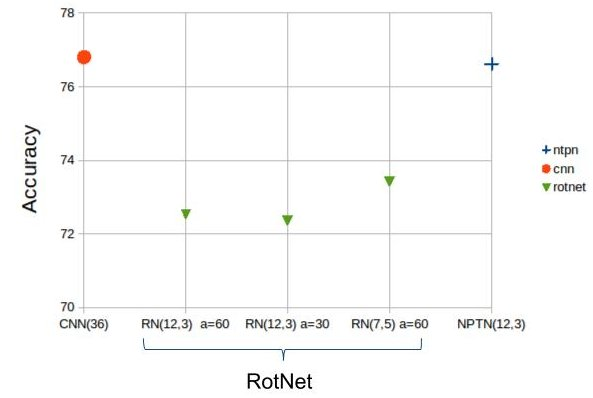
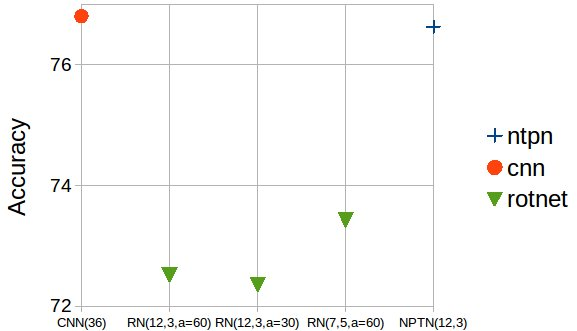
changed Figures

diff --git a/report/report_nptn.tex b/report/report_nptn.tex
@@ -10,6 +10,8 @@
 \PassOptionsToPackage{hyphens}{url}\usepackage{hyperref}
 %\RequirePackage[hyphens]{url}
 
+\usepackage{gensymb}
+
 \usepackage{wrapfig,lipsum,booktabs}
 \usepackage{biblatex}
 \bibliography{references.bib}
@@ -279,7 +281,7 @@ One thing we noticed during this and also the following experiment, is that the 
 \begin{figure}
 	\begin{center}
 	\includegraphics[scale=0.35]{result_images/experiment1.jpg}
-	\caption{The first experiment}
+	\caption{Comparison of the networks on the CIFAR dataset, left: results from \citep{NPTN18}, right: our results}
 	\label{pic:first_experiment}
 	\end{center}
 \end{figure}
@@ -288,21 +290,21 @@ One thing we noticed during this and also the following experiment, is that the 
 \section{Rotation Experiments on MNIST}
 The second experiment from the paper compares a CNN and several NPTNs. Again the dimensions are chosen in a way that matches the values in the paper and leads to the same amount of filters for all networks. 
 This experiment uses the MNIST dataset \cite{MNIST} where data augmentation was applied to all images from training and test set by randomly rotating the images up to a certain angle $\rho$. 
-\begin{wraptable}{r}{5.5cm}
+\begin{wraptable}{r}{7cm}
 %\begin{table}
 \begin{center}
 \begin{tabular}{ |c| c c || c c| } 
  \hline 
   & \multicolumn{2}{|c||}{Paper results} & \multicolumn{2}{|c|}{Our results} \\
  \hline
- Rotations & 60$\deg$ & 90$\deg$ & 60$\deg$ & 90$\deg$ \\
+ Rotations & \hspace{1mm} 60$\degree$ \hspace{1mm} & \hspace{1mm} 90$\degree$  & \hspace{1mm} 60$\degree$ \hspace{2mm} & \hspace{2mm}90$\degree$ \hspace{1mm} \\
  \hline
- CNN(36) & 0.066 & 0.106 & 0.0560 & 0.0736 \\ 
+ CNN(36) & 0.066 & 0.106 & 0.0560 &  0.0736 \\ 
  %NPTN(36,1) & 0.064 & 0.108  & & \\ 
  NPTN(18,2) & 0.053 & 0.092  & n.a. & 0.0739\\ 
  NPTN(12,3) & 0.055 & 0.087 & 0.0409 &  0.0726\\
  \hline
-RN(12,3,$\alpha$=30 & & &  0.0768 & 0.1176 \\
+RN(12,3,$\alpha$=30) & & &  0.0768 & 0.1176 \\
 RN(12,3,$\alpha$=60) & & & 0.0888 & 0.1353 \\
 RN(12,3,$\alpha$=90) & & & 0.0882 & 0.1347 \\
 
@@ -310,7 +312,7 @@ RN(12,3,$\alpha$=90) & & & 0.0882 & 0.1347 \\
 
 \end{tabular}
 
- \caption{Loss of different networks on the MNIST dataset with random rotations up to the shown degree.}
+ \caption{Loss of different networks on the MNIST dataset with random rotations up to the shown degree. Our loss: Negative Log Likelihood loss, paper loss: unknown}
 \end{center}
 \label{tab:resultsexp2}
 %\end{table}
@@ -335,7 +337,7 @@ So many parameters on how to perform this experiment needed to be set by us, sin
 
 \begin{figure}
 	\begin{center}
-	\includegraphics[scale=0.35]{result_images/experiment3.jpg}
+	\includegraphics[scale=0.35]{result_images/experiment3_2.jpg}
 	\caption{Accuracy of the three-layered networks on  the CIFAR-10 dataset.}
 	\label{pic:experiment3}
 	\end{center}
